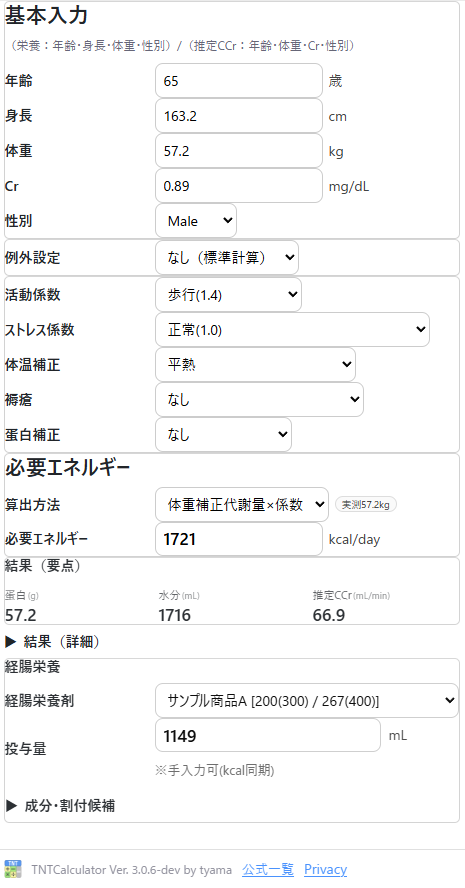
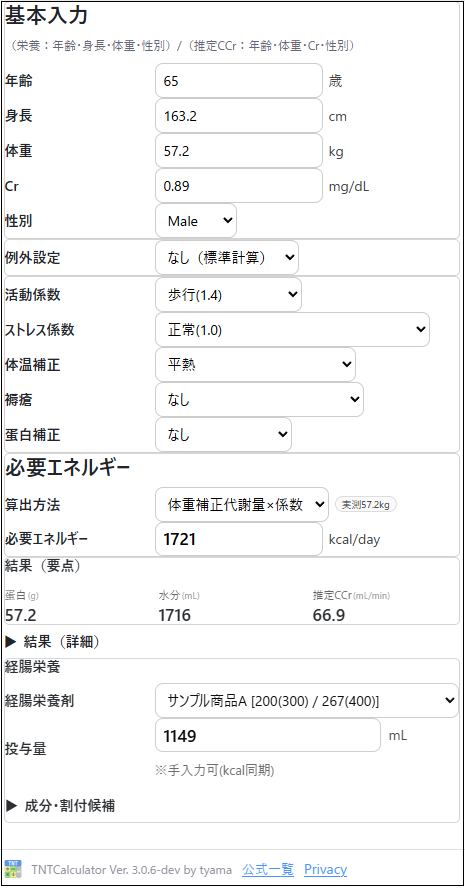
画像の周りに枠線追加

Changed region(s): [[0.9935, 0.0, 1.0, 1.0], [0.0, 0.973, 0.0301, 1.0], [0.0, 0.0, 0.0301, 0.0304]]

diff --git a/README.md b/README.md
@@ -9,20 +9,10 @@ PC・スマートフォンの両方で利用でき、用途に応じた情報密
 
 <p>
   <a href="docs/img/screenshot-desktop.png">
-    <img
-      src="docs/img/screenshot-desktop.png"
-      width="70%"
-      alt="Desktop screenshot"
-      style="border:1px solid #d0d7de; border-radius:12px; box-shadow:0 1px 3px rgba(0,0,0,.08); background:#fff; padding:4px;"
-    >
+    <img src="docs/img/screenshot-desktop.png" width="70%" alt="Desktop screenshot">
   </a>
   <a href="docs/img/screenshot-mobile.png">
-    <img
-      src="docs/img/screenshot-mobile.png"
-      height="360"
-      alt="Mobile screenshot"
-      style="border:1px solid #d0d7de; border-radius:12px; box-shadow:0 1px 3px rgba(0,0,0,.08); background:#fff; padding:4px; margin-left:8px;"
-    >
+    <img src="docs/img/screenshot-mobile.png" height="360" alt="Mobile screenshot">
   </a>
 </p>
 
